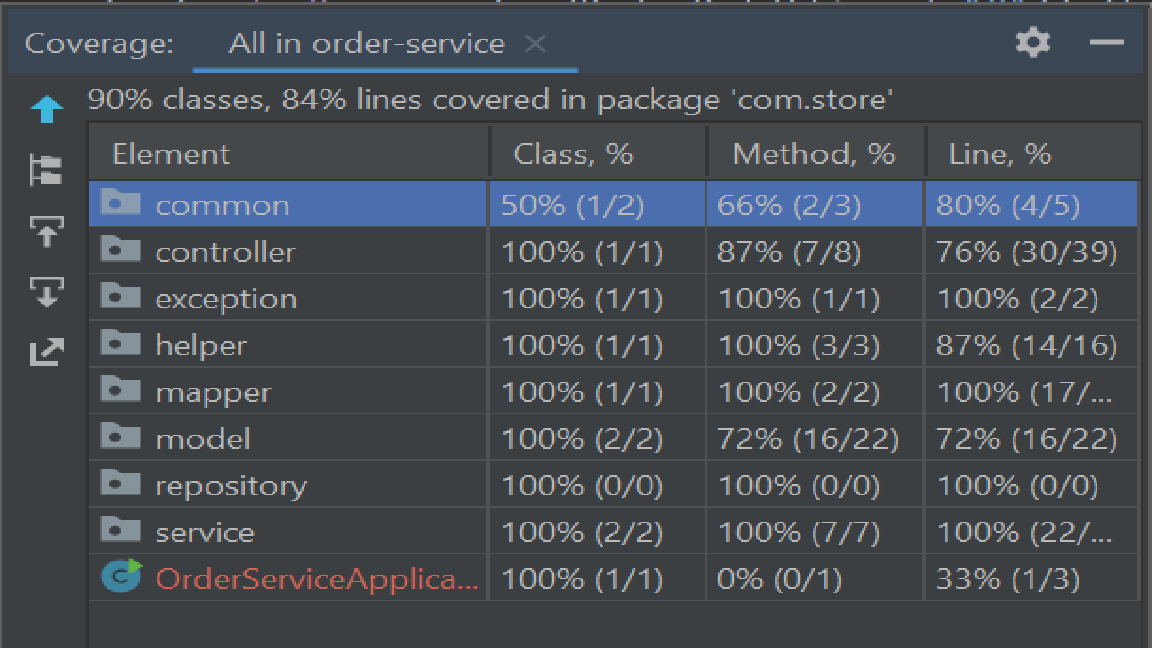
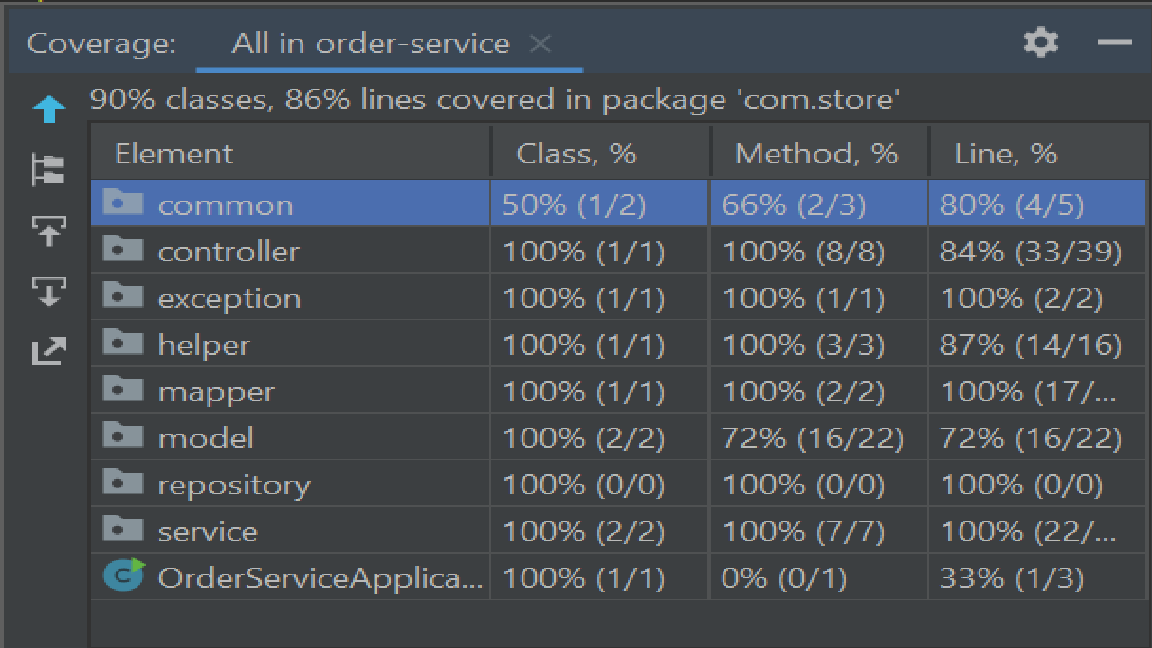
code refactoring and code coverage improvements

diff --git a/src/main/java/com/store/helper/CSVHelper.java b/src/main/java/com/store/helper/CSVHelper.java
@@ -13,12 +13,16 @@ import lombok.extern.slf4j.Slf4j;
 import org.apache.commons.csv.CSVFormat;
 import org.apache.commons.csv.CSVParser;
 import org.apache.commons.csv.CSVRecord;
+import org.springframework.beans.factory.annotation.Autowired;
 import org.springframework.stereotype.Component;
 import org.springframework.web.multipart.MultipartFile;
 @Component
 @Slf4j
 public class CSVHelper {
   public static String TYPE = "text/csv";
+
+  @Autowired
+  StoreOrderMapper storeOrderMapper;
 
   public boolean hasCSVFormat(MultipartFile file) {
     return TYPE.equals(file.getContentType());
@@ -30,7 +34,7 @@ public class CSVHelper {
       List<StoreOrder> storeOrders = new ArrayList<StoreOrder>();
       Iterable<CSVRecord> csvRecords = csvParser.getRecords();
       for (CSVRecord csvRecord : csvRecords) {
-        StoreOrder storeOrder = new StoreOrderMapper().convertToStoreOrder(csvRecord);
+        StoreOrder storeOrder = storeOrderMapper.convertToStoreOrder(csvRecord);
         storeOrders.add(storeOrder);
       }
       return storeOrders;

diff --git a/src/test/java/com/store/helper/CSVHelperTest.java b/src/test/java/com/store/helper/CSVHelperTest.java
@@ -1,11 +1,13 @@
 package com.store.helper;
 
+import com.store.mapper.StoreOrderMapper;
 import com.store.model.StoreOrder;
 import org.junit.jupiter.api.Test;
 import org.junit.jupiter.api.extension.ExtendWith;
 import org.mockito.junit.jupiter.MockitoExtension;
 import org.springframework.beans.factory.annotation.Autowired;
 import org.springframework.boot.test.context.SpringBootTest;
+import org.springframework.boot.test.mock.mockito.MockBean;
 import org.springframework.mock.web.MockMultipartFile;
 import java.io.FileNotFoundException;
 import java.io.IOException;
@@ -21,6 +23,9 @@ public class CSVHelperTest {
 
     @Autowired
     CSVHelper csvHelper;
+
+    @MockBean
+    StoreOrderMapper storeOrderMapper;
 
     @Test
     public void when_file_is_not_csv() throws FileNotFoundException {
@@ -61,4 +66,5 @@ public class CSVHelperTest {
             csvHelper.convert(null);
         });
     }
+
 }

diff --git a/src/test/java/com/store/controller/OrderControllerTest.java b/src/test/java/com/store/controller/OrderControllerTest.java
@@ -41,6 +41,7 @@ public class OrderControllerTest extends ControllerTest{
     @BeforeEach
     public void setUp() {
         super.setUp();
+        when(orderService.findOrderById(ID)).thenReturn(getStoreOrder());
     }
     @Test
     public void when_invalid_file_is_uploaded() throws Exception {
@@ -129,6 +130,12 @@ public class OrderControllerTest extends ControllerTest{
                 .param("customerId", CUSTOMER_ID)
                 .content(mapToJson(getStoreOrder())))
                 .andExpect(status().isNotFound());
+    }
+
+    @Test
+    public void deleteApplication() throws Exception {
+        mvc.perform(MockMvcRequestBuilders.delete(ORDERS_API_URL+"/"+ID))
+                .andExpect(status().isNoContent());
     }
 
 }

diff --git a/src/main/java/com/store/mapper/StoreOrderMapper.java b/src/main/java/com/store/mapper/StoreOrderMapper.java
@@ -2,12 +2,13 @@ package com.store.mapper;
 
 import com.store.model.StoreOrder;
 import org.apache.commons.csv.CSVRecord;
+import org.springframework.stereotype.Component;
 
 import java.time.LocalDate;
 import java.time.format.DateTimeFormatter;
 
 import static com.store.common.CsvConstants.*;
-
+@Component
 public class StoreOrderMapper {
 
     public static  final String DATE_FORMAT = "dd.MM.yy";
